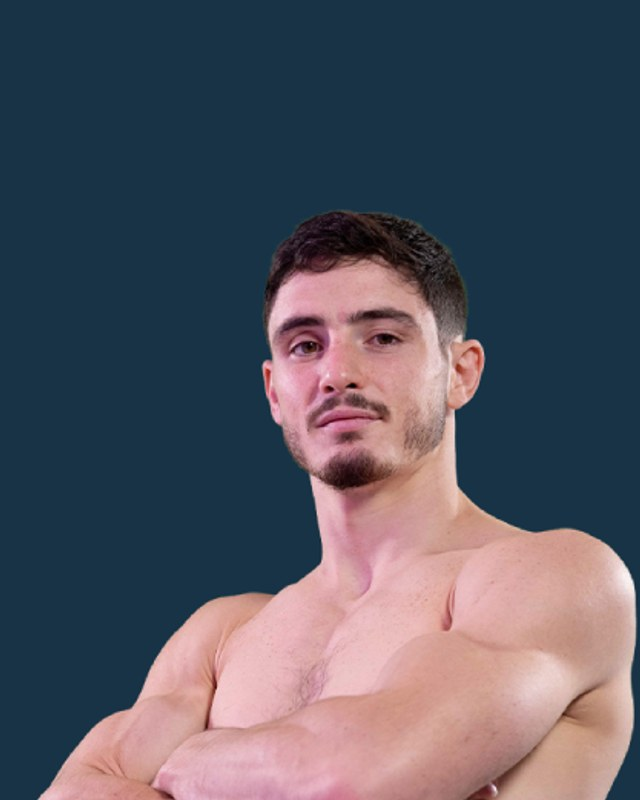
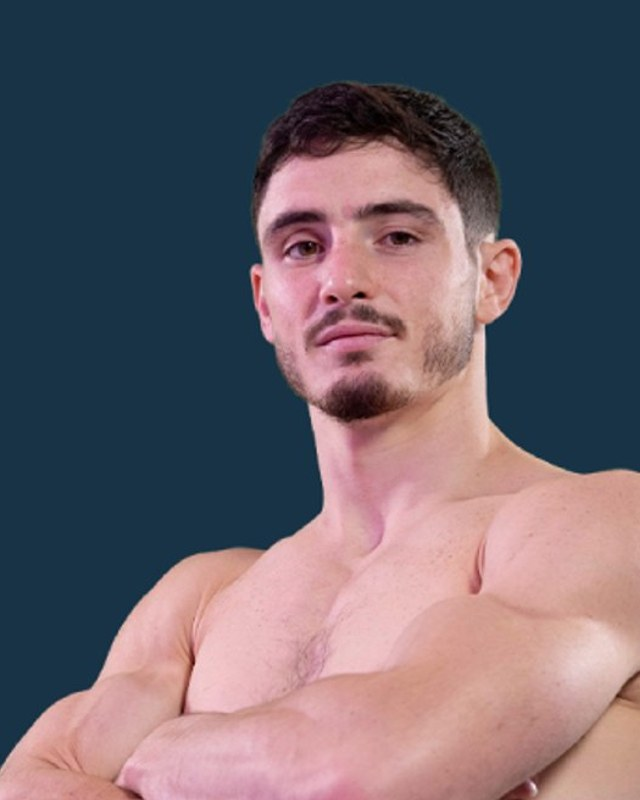
Les photos de combats et leur cadrage restent a l'agent Combat Boxe, plus dans les regles Cursor.

diff --git a/src/styles/site.css b/src/styles/site.css
@@ -366,7 +366,7 @@ a.card {
   width: 100%;
   aspect-ratio: 16 / 10;
   object-fit: cover;
-  object-position: top center;
+  object-position: center 32%;
 }
 
 .row-card h3 {
@@ -488,7 +488,7 @@ dd {
     min-height: 300px;
     max-height: none;
     aspect-ratio: auto;
-    object-position: center 10%;
+    object-position: center 18%;
   }
 
   .cover-edito-poster .cover-bg,
@@ -509,6 +509,10 @@ dd {
   .cover-edito {
     min-height: 300px;
     padding: 28px 28px 24px;
+  }
+
+  .cover-edito-photo:not(.cover-edito-single) {
+    min-height: 360px;
   }
 
   .cover-edito-photo:not(.cover-edito-single) .cover-copy {
@@ -1062,6 +1066,10 @@ a {
   gap: 8px;
 }
 
+.cover-edito-photo:not(.cover-edito-single) {
+  min-height: 280px;
+}
+
 .cover-edito-photo:not(.cover-edito-single) .cover-copy {
   position: absolute;
   inset: 0;
@@ -1084,7 +1092,7 @@ a {
   height: auto;
   aspect-ratio: 4 / 5;
   object-fit: cover;
-  object-position: center 8%;
+  object-position: center 18%;
   z-index: 0;
 }
 
@@ -1142,7 +1150,7 @@ a {
   width: 100%;
   height: 100%;
   object-fit: cover;
-  object-position: center 16%;
+  object-position: center 32%;
 }
 
 .cover-photo-shade {
@@ -1177,7 +1185,7 @@ a {
   width: 100%;
   height: 100%;
   object-fit: cover;
-  object-position: center 16%;
+  object-position: center 32%;
 }
 
 .cover-mark {
@@ -1597,7 +1605,7 @@ a {
 }
 
 .fight-media-portrait img {
-  object-position: center 16%;
+  object-position: center 36%;
 }
 
 .fight-media-scene img {

diff --git a/.cursor/skills/redacteur-combat-boxe/SKILL.md b/.cursor/skills/redacteur-combat-boxe/SKILL.md
@@ -21,15 +21,17 @@ Textes originaux. Aucun paragraphe repris d'actu-boxe.com ni d'un autre média.
 
 ## Images (à faire tout seul, sans qu'on le redemande)
 
+Ces consignes sont celles de l'agent Combat Boxe pour combat-boxe.com. Elles ne s'appliquent pas aux autres projets.
+
 Dès qu'un combat, un gala ou un portrait entre sur le site, l'agent cherche et pose les images. Ne pas attendre une relance.
 
 **Ordre obligatoire pour un combat nommé**
 
 1. Chercher les **vraies images de ce combat** : portraits des deux boxeurs, puis affiche officielle du gala (ville, promoteur, FFBoxe, presse).
 2. Poser ces fichiers dans `public/img/boxers/` ou `public/img/posters/`, les brancher (`photo-credits.json` / `POSTERS` dans `portraits.js`).
-3. **Se rassurer qu'elles y sont** : ouvrir la carte et la fiche en local, 375 px et ~900 px. Les visages affichés sont bien ceux des noms. Rien n'est coupé au front. Pas de gant accroché, ring vide ou tabouret à la place d'un boxeur nommé.
+3. **Se rassurer qu'elles y sont et qu'elles sont cadrées** : ouvrir la carte, la fiche et l'aperçu (bandeau) en local, 375 px et ~900 px. Les visages affichés sont bien ceux des noms. Yeux et bouche visibles. Pas de crâne seul, pas de grand vide au-dessus de la tête. Pas de gant accroché, ring vide ou tabouret à la place d'un boxeur nommé.
 4. **Seulement s'il n'existe vraiment aucune photo ni affiche** : alors `fightMedia()` peut poser une image de boxe (`/img/scene-*.jpg`). Pas avant. Jamais en premier.
-5. Faire ça **pour tout le monde** sur l'affiche, pas seulement la tête d'affiche. Chaque agent (pas seulement le rédacteur) cherche l'affiche officielle comme pour Schofield contre Bahdi, ouvre **toutes** les cartes et contrôle avant de pousser.
+5. Faire ça **pour tout le monde** sur l'affiche, pas seulement la tête d'affiche. L'agent Combat Boxe cherche l'affiche officielle comme pour Schofield contre Bahdi, ouvre **toutes** les cartes, contrôle le cadrage des aperçus, puis pousse.
 
 **Boxeurs nommés (vrai portrait, jamais un autre visage)**
 
@@ -51,14 +53,15 @@ Les cartes d'entrée (prochains combats, résultats, calendrier, clubs) utilisen
 
 **Cadrage**
 
-Toute image doit se lire sans coupe de visage, de gant ou de sujet principal.
+Toute image doit se lire sans coupe de visage, de gant ou de sujet principal. Les aperçus (cartes et bandeau de fiche) sont aussi à cadrer : si on ne voit que le haut du crâne, recadrer le fichier.
 
-- Portraits dans les cartes combat : classe `fight-media-portrait`, `object-fit: cover`, `object-position: center 16%`, bandeau d'au moins 200 px de haut.
+- Portraits dans les cartes combat : classe `fight-media-portrait`, `object-fit: cover`, `object-position: center 36%`, bandeau d'au moins 200 px de haut.
 - Affiches officielles : classe `fight-media-poster`, `object-position: center 12%` (visages des têtes d'affiche en haut).
 - Scènes d'ambiance : `fight-media-scene`, `object-position: center center`.
-- Bandeau article 1 portrait : `cover-edito-single` (photo en portrait 4/5, pas une bandeau trop plat qui ne garde que le front).
+- Bandeau fiche 2 portraits : `cover-split`, `object-position: center 32%`, hauteur suffisante pour lire les visages.
+- Bandeau article 1 portrait : `cover-edito-single` (photo en portrait 4/5, `object-position: center 18%`).
 - Accueil / agenda : `object-position: center 28%` sur les 16:9.
-- Vérifier 375 px et ~900 px : pas de front seul, pas de photo floue coupée, pas de carte sans image.
+- Vérifier 375 px et ~900 px : pas de front seul, pas de vide au-dessus de la tête, pas de photo floue coupée, pas de carte sans image.
 
 Pas de crédit sous l'article. Pas de bloc Sources visible. Ne pas expliquer la méthode photo sur /a-propos. Pas d'Unsplash. Pas de photo Wikipedia fair-use (seulement Commons libre).
 
